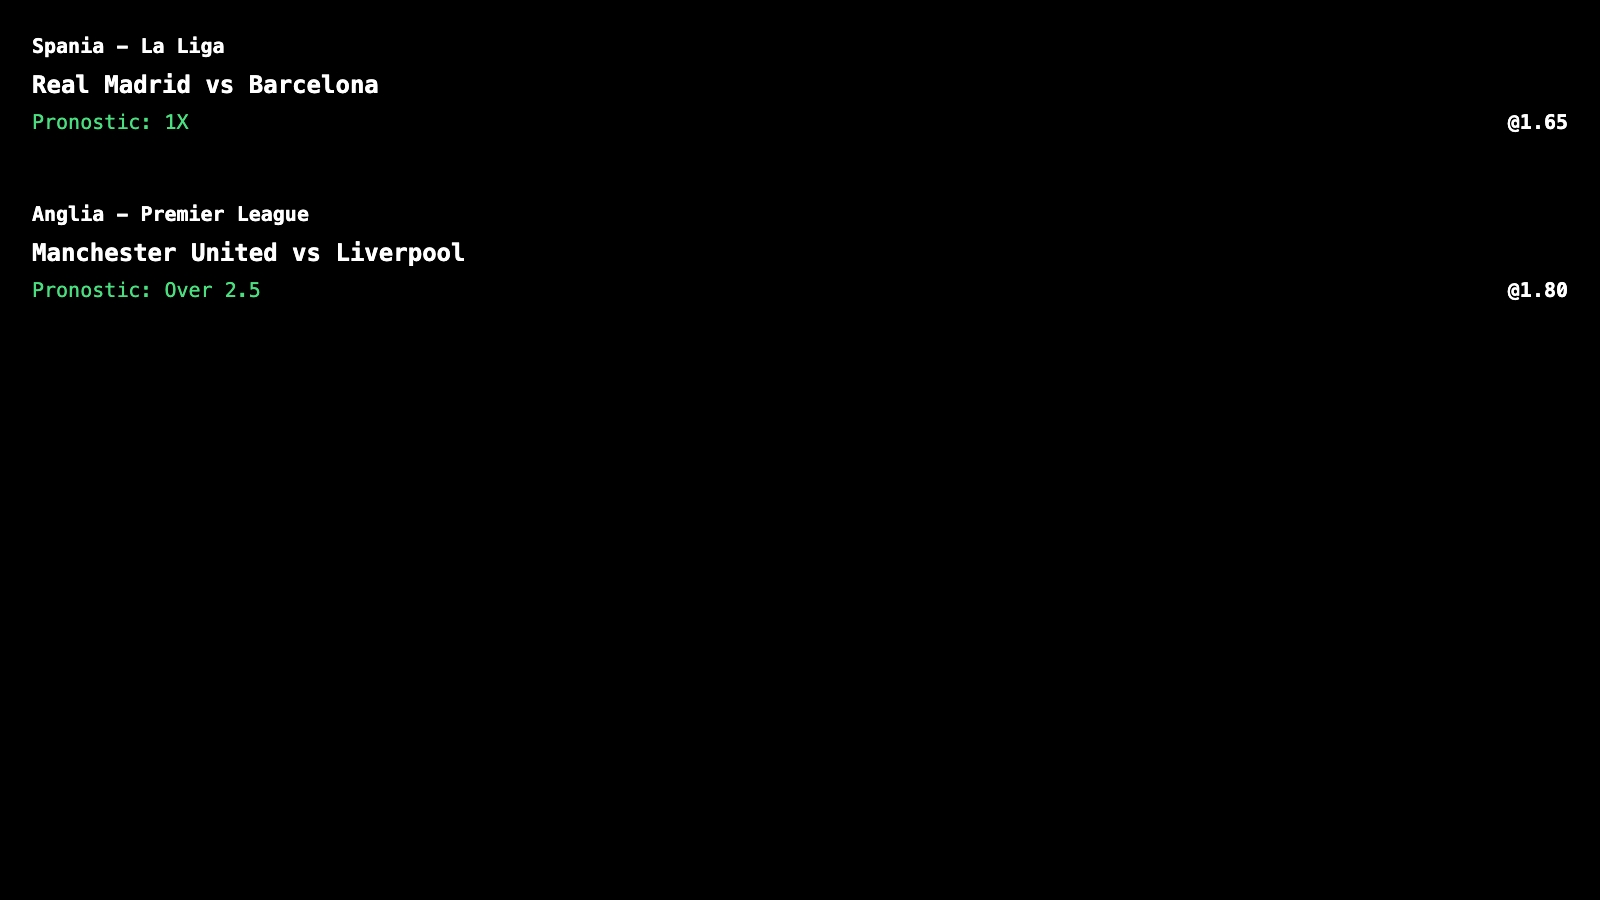
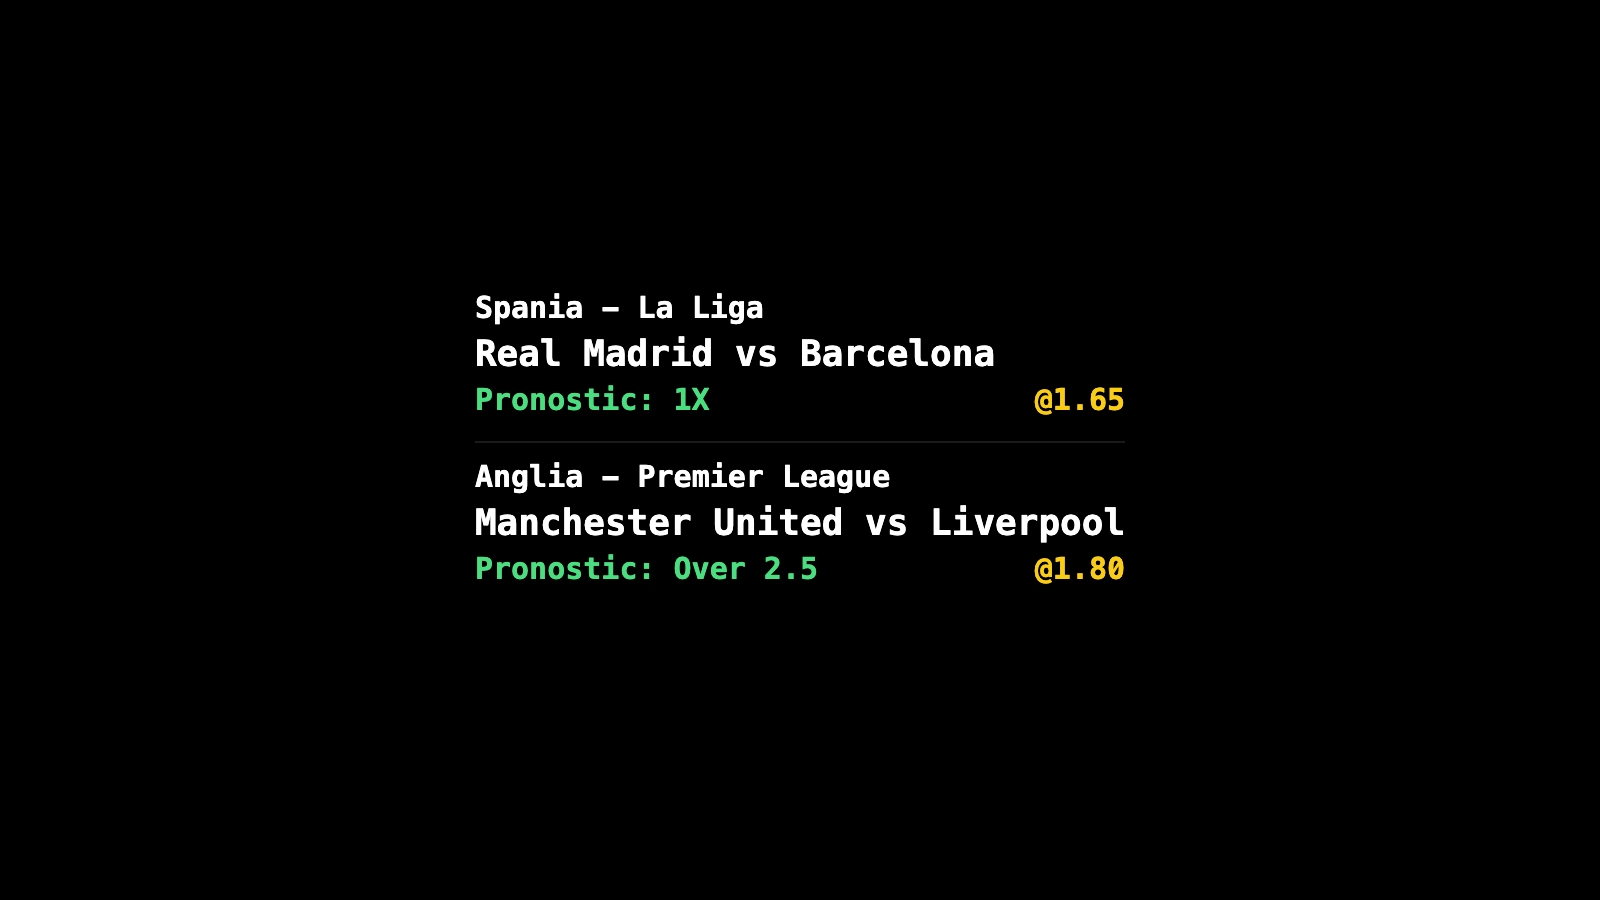
add bg on template

diff --git a/insights/components/ui/bet_template.tsx b/insights/components/ui/bet_template.tsx
@@ -21,19 +21,34 @@ const BettingTips = () => {
   ];
 
   return (
-    <div className="bg-black text-white p-8 font-mono" style={{width: '1600px', height: '900px'}}>
-      {meciuri.map((meci, index) => (
-        <div key={index} className="mb-16">
-          <div className="text-xl font-bold mb-2">{meci.tara} - {meci.competitie}</div>
-          <div className="text-2xl font-semibold mb-2">
-            {meci.echipaAcasa} vs {meci.echipaDepalsare}
-          </div>
-          <div className="flex justify-between items-center text-xl">
-            <span className="text-green-400">Pronostic: {meci.pronostic}</span>
-            <span className="font-bold">@{meci.cota.toFixed(2)}</span>
-          </div>
-        </div>
-      ))}
+    <div 
+      className="text-white font-mono flex items-center justify-center bg-cover bg-center"
+      style={{
+        width: '1600px', 
+        height: '900px',
+        backgroundImage: 'url("@/public/betslip_background.png")',
+        backgroundColor: '#000'
+      }}
+    >
+      <div className="bg-black bg-opacity-80 p-8 rounded-lg shadow-lg max-w-3xl">
+        {meciuri.map((meci, index) => (
+          <React.Fragment key={index}>
+            <div className="mb-6">
+              <div className="text-3xl font-bold mb-2">{meci.tara} - {meci.competitie}</div>
+              <div className="text-4xl font-semibold mb-2">
+                {meci.echipaAcasa} vs {meci.echipaDepalsare}
+              </div>
+              <div className="flex justify-between items-center text-3xl">
+                <span className="text-green-400 font-bold">Pronostic: {meci.pronostic}</span>
+                <span className="font-bold text-yellow-400">@{meci.cota.toFixed(2)}</span>
+              </div>
+            </div>
+            {index < meciuri.length - 1 && (
+              <hr className="border-t border-white opacity-20 my-4" />
+            )}
+          </React.Fragment>
+        ))}
+      </div>
     </div>
   );
 };

diff --git a/insights/custom.d.ts b/insights/custom.d.ts
@@ -1,0 +1,4 @@
+declare module '*.png' {
+    const content: any;
+    export default content;
+  }
